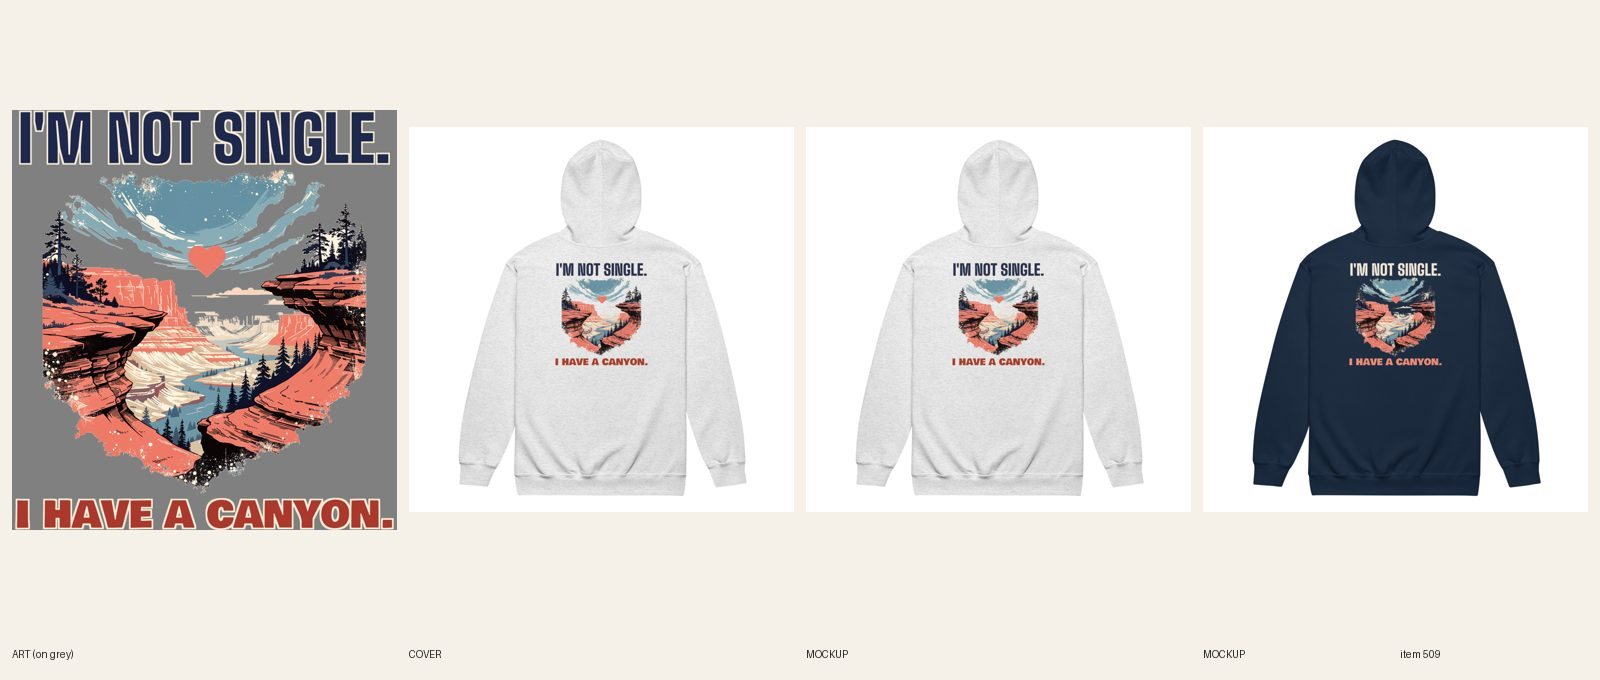
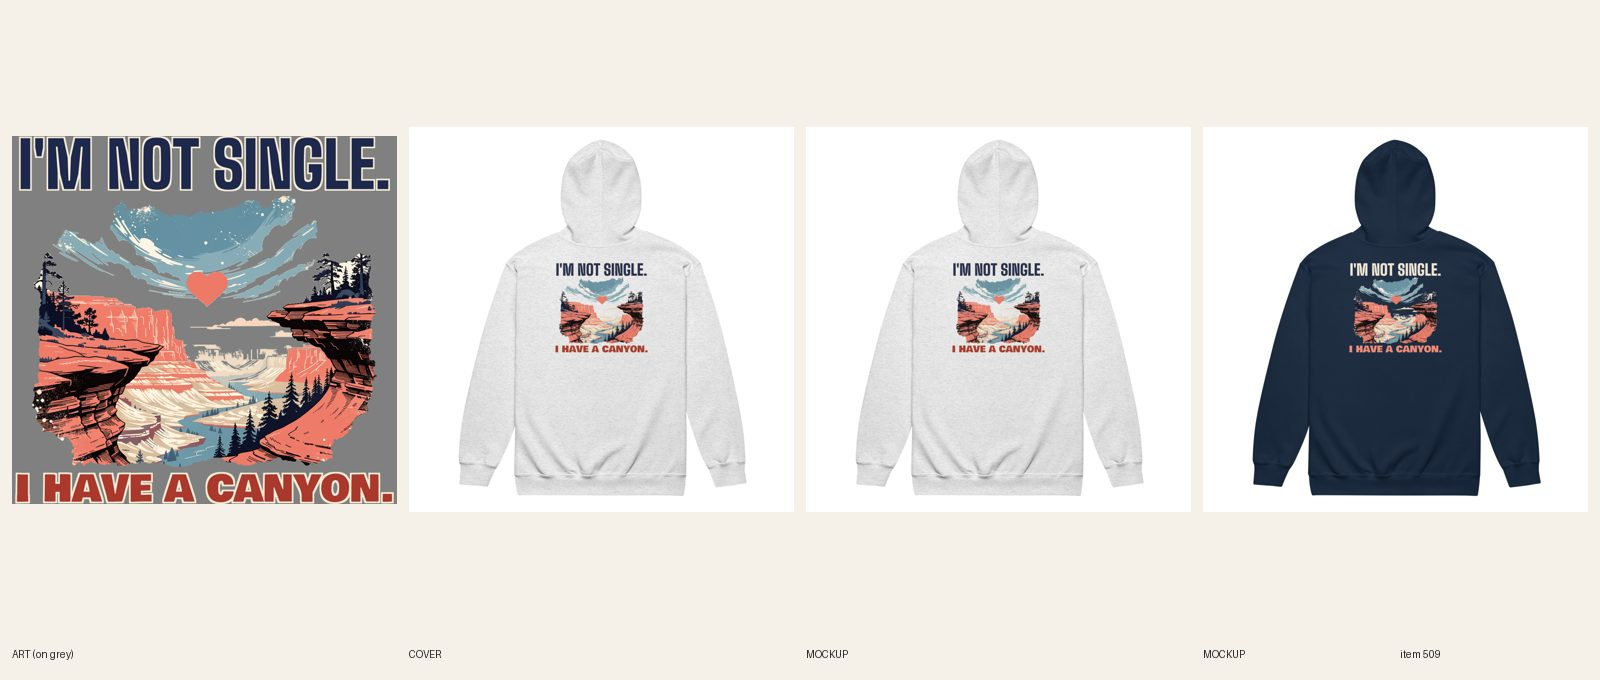
[C] review 509 (redo)
Claude-Session: https://claude.ai/code/session_01CCHcDj8LcJJ8qUPtKE3cvn

diff --git a/designs/rough2.py b/designs/rough2.py
@@ -1,0 +1,18 @@
+import sys, numpy as np, cv2
+from PIL import Image
+# rough2.py in out depth seed [closing=160] [keep_top=0]: worn, uneven outer edges; distance is measured to the OUTSIDE of the art only (interior knocked-out gaps are ignored)
+im = Image.open(sys.argv[1]).convert('RGBA'); a = np.array(im); depth = float(sys.argv[3]); rng = np.random.default_rng(int(sys.argv[4]))
+ck = int(sys.argv[5]) if len(sys.argv) > 5 else 160; keep_top = int(sys.argv[6]) if len(sys.argv) > 6 else 0
+al = (a[..., 3] > 40).astype(np.uint8); al = np.pad(al, ck)
+closed = cv2.morphologyEx(al, cv2.MORPH_CLOSE, cv2.getStructuringElement(cv2.MORPH_ELLIPSE, (ck, ck)))
+# fill remaining interior holes: flood fill the outside
+ff = closed.copy(); h, w = ff.shape; mask = np.zeros((h + 2, w + 2), np.uint8); cv2.floodFill(ff, mask, (0, 0), 2); closed = (ff != 2).astype(np.uint8)
+dist = cv2.distanceTransform(closed, cv2.DIST_L2, 5)[ck:-ck, ck:-ck]
+n = np.zeros(dist.shape, np.float32)
+for s, wt in ((70, .45), (28, .35), (10, .2)):
+    f = rng.random(n.shape).astype(np.float32); f = cv2.GaussianBlur(f, (0, 0), s); f = (f - f.min()) / (f.max() - f.min()); n += wt * f
+n = (n - n.min()) / (n.max() - n.min())
+kill = (dist < depth * (0.15 + 1.2 * n)) & (dist < depth)
+if keep_top: kill[:keep_top] = False
+a[..., 3][kill & (a[..., 3] > 0)] = 0
+Image.fromarray(a).save(sys.argv[2]); print('dropped', int(kill.sum()))

diff --git a/designs/c509/make.py b/designs/c509/make.py
@@ -1,9 +1,9 @@
 import sys; sys.path.insert(0,'.')
 from designs.lib import *
 im=Image.open('docs/print-files/509-swipe-right-public-land.png').convert('RGBA'); W=im.width
-art=im.crop((0,531,W,3319)); art=art.crop(art.getbbox()); art=art.resize((int(art.width*0.95),int(art.height*0.95)),Image.LANCZOS)
+art=Image.open('designs/c509/art_rag.png').convert('RGBA'); art=art.crop(art.getbbox()); art=art.resize((int(art.width*1.05),int(art.height*1.05)),Image.LANCZOS)
 DK=(30,40,76,255); CORAL=(248,140,112,255); DCOR=(170,56,44,255)
 for tag,c1,k1,c2,k2,bg in (('ash',DK,CREAM,DCOR,CREAM,(200,200,200,255)),('navy',CREAM,DK,CORAL,DK,(38,50,88,255))):
     h1=line("I'M NOT SINGLE.",'big',0.97,W,c1,k1,kw=27); h2=line("I HAVE A CANYON.",'bowlby',0.985,W,c2,k2,kw=29)
     print(tag,'headline px',h1.width,'punch px',h2.width,'heights',h1.height,h2.height,'art',art.size)
-    out=lockup(art,W,[h1],[h2],f'509-v2-canyon-{tag}',{tag:bg}); print(out.size)
+    out=lockup(art,W,[h1],[h2],f'509-v3-canyon-{tag}',{tag:bg}); print(out.size)

diff --git a/docs/pipeline/509-national-park-zip-hoodie-swipe-right-on-public-land.md b/docs/pipeline/509-national-park-zip-hoodie-swipe-right-on-public-land.md
@@ -1,4 +1,4 @@
-status: BUILDING [C] 2026-10-20 08:30
+status: REVIEW
 lane: C
 type: new
 id: 509
@@ -36,3 +36,4 @@ kd: 32
 - 2026-10-20 08:45 UTC director: REDO from docs/review/509.jpg (product stays ACTIVE; fix in place).
   1. R4.1: the canyon scene is cut into a shield (wide top, pointed bottom tip), which reads as a crest on the back print. Break the silhouette: let the canyon walls and trees run out to ragged edges on the left and right, end the bottom at the river and rock line with worn edges, no point. $0.
   2. Line and type stay (I'M NOT SINGLE. / I HAVE A CANYON.).
+- 2026-10-20 08:37 UTC builder [C]: REDO round 2 per the director's 08:45 note (R4.1: the canyon scene was cut into a shield with a pointed bottom). Line and type unchanged (I'M NOT SINGLE. / I HAVE A CANYON.; headline 3034 px / punch 3096 px). Art: the pointed bottom tip is cut off at the river and rock line (2230 of 2788 px kept) and the whole outer edge (left and right canyon walls, trees, sky rays, bottom) is carved into worn, uneven edges with a new script designs/rough2.py that measures distance only to the OUTSIDE of the art, so the knocked-out sky inside the scene is not eaten (scripts/ragged-edge.py and my first carve both ate the sky). No shield, point or straight side left at phone size on either mockup. The small chest copy was rebuilt from the same carved art (file 1090258837; the old chest copy was still the shield). Files: Ash back 1090258924, Navy back 1090258961 (docs/print-files/509-v3-canyon-ash.png / -navy.png), BW 1650 BT 225, 12/12 relinked (verified on the API). Light-file split unchanged (Ash navy headline / Navy cream headline). Both back mockups replaced in place, read at phone size. Title and copy unchanged. fal $0.

diff --git a/docs/intake-log.md b/docs/intake-log.md
@@ -12,6 +12,7 @@ RUNNING director since 2026-10-20 07:17 UTC
 RUNNING lane B since 2026-10-20 07:29 UTC
 2026-10-20 08:00 UTC — [E] Builder run: redid #608 Women's Pickleball tee (line + type: POLITE SMILE. / PERSONAL VENDETTA., same serene-lady art, Bevan, dark-ink file on 5 light colors, 30/30 synced). REVIEW. fal $0.
 RUNNING lane C since 2026-10-20 07:00 UTC
+2026-10-20 08:37 UTC — [C] Builder run: redid #509 Women's National Park zip hoodie round 2 (director note: shield silhouette broken, bottom point cut at the river line, ragged worn edges all round, chest copy rebuilt, Ash file 1090258924 + Navy file 1090258961, chest 1090258837, 12/12 relinked, back mockups replaced). REVIEW. fal $0.
 2026-10-20 08:30 UTC — [C] Builder run: redid #397 Unisex Otter hoodie round 2 (director note: new line TODAY'S PLAN: / HORIZONTAL., headline 3318 px / punch 3349 px, Sand file 1090256464 + Navy file 1090256642, FW 1500 TOP 0, 12/12 relinked, 2 fronts replaced in place, retitled + copy + SEO updated). REVIEW. fal $0.
 2026-10-20 08:25 UTC — [C] Builder run: redid #402 Men's Fishing heavyweight hoodie (new line + type: SIX HOURS. / STARING AT A HOLE., headline 3278 px / punch 3337 px, Bowlby + Alfa, same ice-fishing art, Sandstone file 1090254838 + Storm Blue file 1090254866, FW 1600 TOP 20, 14/14 relinked, 2 fronts replaced in place, title + copy + SEO updated). REVIEW. fal $0.
 2026-10-20 08:18 UTC — [C] Builder run: redid #397 Unisex Otter hoodie (new line + type: I'M NOT LAZY. / GOING WITH THE FLOW., headline 3300 px / punch 3311 px, Bowlby One, same otter art, Sand file 1090252596 + Navy file 1090252654, FW 1500 TOP 0, 12/12 relinked, 2 fronts replaced in place, title + copy + SEO updated). REVIEW. fal $0.
